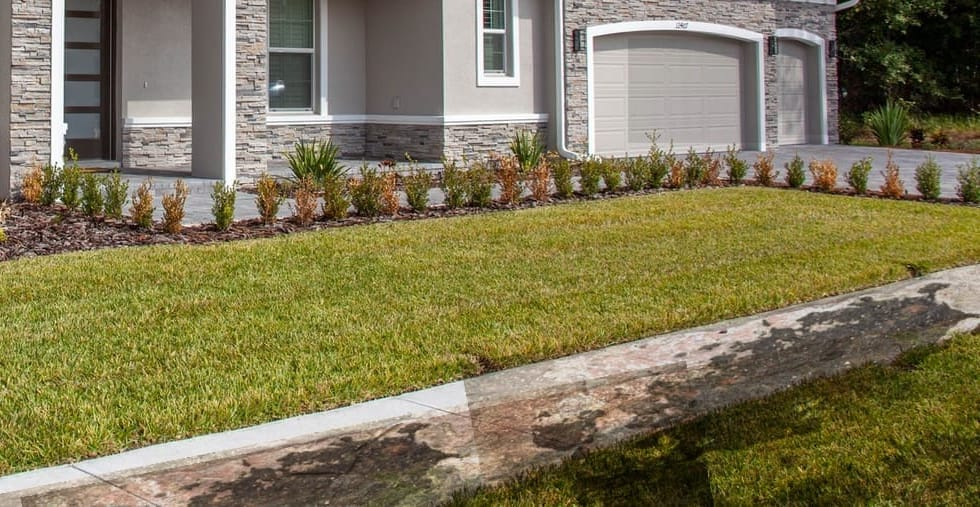
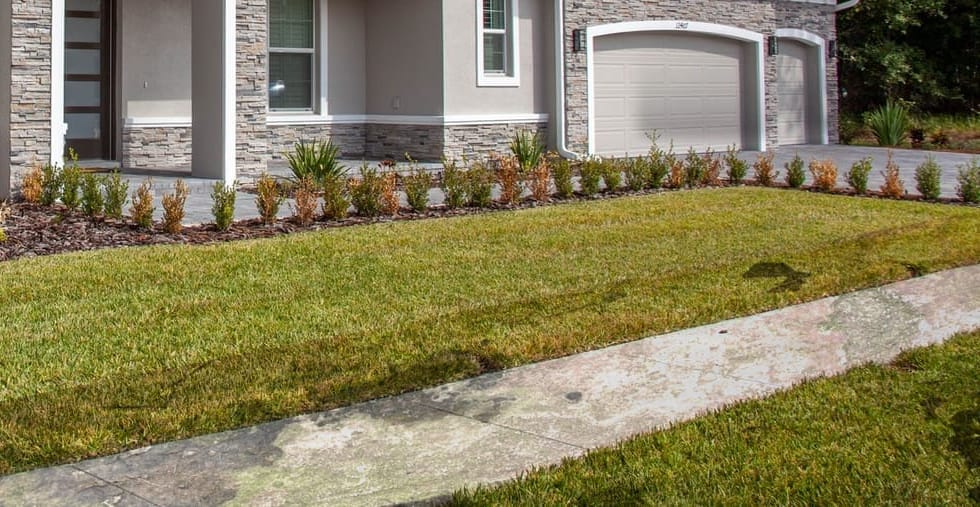
Popup jet+copy, grime artifacts, video variety+loop, hero alts, epic watermark
- TravisPopup: jet line now clipped to the exact photo-edge geometry (no
  longer slashes through 'Owner'); reworded — 'Let's get you a straight
  price / Travis or one of the team will text your quote back' (he doesn't
  quote every job); no-scrollbar on the scroll container
- Grime v5: single continuous concrete texture (no tile-seam shadow);
  garage doors + gutters now feathered gradient stains, no hard box edges
- FieldTV: clips loop cleanly (added loop, dropped abrupt onEnded advance)
- SocialStrip: 10 distinct thumbnail cards from varied clip moments, slower
  marquee — a real scroll with no obvious repeat
- Two alternate hero loops encoded (hero-alt-1/2) + HERO_MEDIA one-line
  switch; hero video is now config-driven
- AreaRipple heading stacks cleanly (no awkward mid-phrase break)
- Footer: tasteful blended 'Site by Epic Dev Solutions' watermark

Changed region(s): [[0.0, 0.4438, 1.0, 1.0], [0.6122, 0.5325, 0.6429, 0.5917]]

diff --git a/src/components/TravisPopup.tsx b/src/components/TravisPopup.tsx
@@ -66,7 +66,7 @@ export default function TravisPopup() {
             animate={{ y: 0, scale: 1, rotate: 0 }}
             exit={{ y: 56, opacity: 0 }}
             transition={{ type: "spring", stiffness: 240, damping: 24 }}
-            className="relative max-h-[92svh] w-full max-w-[26rem] overflow-hidden overflow-y-auto rounded-[1.75rem] bg-white shadow-[0_48px_120px_-24px_rgba(4,18,31,0.85)]"
+            className="no-scrollbar relative max-h-[92svh] w-full max-w-[26rem] overflow-hidden overflow-y-auto rounded-[1.75rem] bg-white shadow-[0_48px_120px_-24px_rgba(4,18,31,0.85)]"
             onClick={(e) => e.stopPropagation()}
           >
             {/* Travis, cut on the wand angle */}
@@ -92,7 +92,7 @@ export default function TravisPopup() {
                 <span className="text-[0.6rem] font-bold text-foam">5.0 on Google</span>
               </div>
 
-              <div className="absolute bottom-8 left-5 flex items-center gap-2.5">
+              <div className="absolute bottom-[4.5rem] left-5 flex items-center gap-2.5">
                 <Image src="/images/logo-white.png" alt="" width={44} height={44} className="h-10 w-10 drop-shadow-lg" />
                 <div>
                   <p className="display text-xl leading-none text-foam drop-shadow-md">Travis Moss</p>
@@ -101,22 +101,16 @@ export default function TravisPopup() {
               </div>
             </div>
 
-            {/* the jet riding the cut */}
+            {/* the jet riding the cut — clipped to the exact edge geometry */}
             <div
               aria-hidden="true"
-              className="pointer-events-none absolute left-[-4%] top-0 h-56 w-[108%] sm:h-60"
-              style={{ clipPath: "polygon(0 0, 100% 0, 100% 100%, 0 100%)" }}
-            >
-              <span
-                className="absolute left-[-2%] right-[-2%] h-[3px] origin-left"
-                style={{
-                  top: "88%",
-                  transform: "rotate(-4.6deg)",
-                  background: "linear-gradient(90deg, rgba(2,171,223,0.2), rgba(127,214,242,0.95), rgba(2,171,223,0.2))",
-                  boxShadow: "0 0 18px 4px rgba(2,171,223,0.5)",
-                }}
-              />
-            </div>
+              className="pointer-events-none absolute left-0 top-0 h-56 w-full sm:h-60"
+              style={{
+                clipPath: "polygon(0 97.4%, 100% 75.4%, 100% 78.2%, 0 100%)",
+                background: "linear-gradient(90deg, rgba(2,171,223,0.25), rgba(127,214,242,0.95), rgba(2,171,223,0.25))",
+                filter: "drop-shadow(0 0 10px rgba(2,171,223,0.6))",
+              }}
+            />
 
             <div className="relative px-6 pb-6 pt-4">
               {/* ghosted splash behind the copy */}
@@ -129,11 +123,12 @@ export default function TravisPopup() {
                 className="pointer-events-none absolute -right-8 bottom-2 w-40 rotate-6 opacity-[0.06]"
               />
               <p className="display text-[1.65rem] leading-[1.05] text-ink">
-                Want me to take a look <span className="text-hydro">myself?</span>
+                Let&apos;s get you a <span className="whitespace-nowrap text-hydro">straight price.</span>
               </p>
               <p className="mt-2.5 text-sm leading-relaxed text-slate">
-                I quote every job personally. Send your address — I&apos;ll text back a
-                straight price, usually the same day.
+                Send your address and what needs washing — Travis or one of the team
+                will text your quote back, usually the{" "}
+                <span className="whitespace-nowrap">same day.</span>
               </p>
 
               <div className="mt-5 flex flex-col gap-2.5">

diff --git a/src/lib/site.ts b/src/lib/site.ts
@@ -193,6 +193,16 @@ export const CITIES = [
   "Winter Garden", "Apopka", "Ocoee", "Orlando",
 ];
 
+/* Hero background footage — swap in one place.
+   Options: /videos/hero-wash.mp4 (low-angle jet + mist wall)
+            /videos/hero-alt-1.mp4 (close wand jet on concrete, 4K source)
+            /videos/hero-alt-2.mp4 (bench + rolling mist)
+   Each has a matching poster: same name with -poster.jpg under /images. */
+export const HERO_MEDIA = {
+  video: "/videos/hero-wash.mp4",
+  poster: "/images/hero-wash-poster.jpg",
+};
+
 export const STATS = [
   { value: 4000, suffix: " PSI", label: "of commercial-grade pressure" },
   { value: 250, suffix: "°F", label: "hot water for grease & sanitation" },
@@ -230,4 +240,20 @@ export const FIELD_CLIPS = [
     label: "The rig rolls out",
     tag: "On the road",
   },
+];
+
+/* Poster cards for the bottom social marquee — more variety than the 4 clips,
+   pulled from different moments so the scroll never looks repetitive. Each is
+   a still that links straight out to the socials. */
+export const SOCIAL_CARDS = [
+  { poster: "/images/field-driveway.jpg", label: "House exterior soft wash", tag: "Residential" },
+  { poster: "/images/social-engine-8.jpg", label: "Peterbilt, degreased", tag: "Heavy equipment" },
+  { poster: "/images/field-trailer.jpg", label: "Box trailer — inside & out", tag: "Fleet" },
+  { poster: "/images/social-rig-3.jpg", label: "Rig set up on site", tag: "On the road" },
+  { poster: "/images/social-driveway-14.jpg", label: "Siding brought back to white", tag: "Residential" },
+  { poster: "/images/social-engine-22.jpg", label: "Engine bay detail", tag: "Heavy equipment" },
+  { poster: "/images/social-trailer-6.jpg", label: "Trailer wash-down", tag: "Fleet" },
+  { poster: "/images/field-rig.jpg", label: "Loaded and rolling", tag: "On the road" },
+  { poster: "/images/social-driveway-5.jpg", label: "Soft wash in progress", tag: "Residential" },
+  { poster: "/images/social-trailer-20.jpg", label: "Fleet, spotless finish", tag: "Fleet" },
 ];

diff --git a/src/components/Footer.tsx b/src/components/Footer.tsx
@@ -97,9 +97,24 @@ export default function Footer() {
             </div>
           </div>
 
-          <div className="mt-14 flex flex-col items-center justify-between gap-3 border-t border-hydro/10 pt-6 text-[0.6875rem] text-mist-dim md:flex-row">
+          <div className="mt-14 flex flex-col items-center justify-between gap-4 border-t border-hydro/10 pt-6 text-[0.6875rem] text-mist-dim md:flex-row">
             <p>© {new Date().getFullYear()} TM Home Detailz. Family owned &amp; operated in Central Florida.</p>
-            <p className="label text-[0.5625rem]">Commercial · Residential · Fleet · Heavy Equipment</p>
+            <a
+              href="https://www.epicdevsolutions.com"
+              target="_blank"
+              rel="noopener noreferrer"
+              className="group flex items-center gap-2.5 opacity-55 transition-opacity hover:opacity-100"
+              aria-label="Website by Epic Dev Solutions"
+            >
+              <span className="text-[0.5625rem] uppercase tracking-[0.18em]">Site by</span>
+              <Image
+                src="/images/epic-logo.png"
+                alt="Epic Dev Solutions"
+                width={663}
+                height={160}
+                className="h-4 w-auto opacity-90 grayscale transition-all duration-300 group-hover:opacity-100 group-hover:grayscale-0"
+              />
+            </a>
           </div>
         </div>
       </div>

diff --git a/src/components/Hero.tsx b/src/components/Hero.tsx
@@ -6,7 +6,7 @@ import { useEffect, useRef, useState } from "react";
 import PowerWash from "@/components/PowerWash";
 import JetButton from "@/components/JetButton";
 import SplashMark from "@/components/SplashMark";
-import { SITE, CITIES } from "@/lib/site";
+import { SITE, CITIES, HERO_MEDIA } from "@/lib/site";
 
 /* Hero: the screen is split by a pressure jet on the wand angle from the TM
    logo. Left, the pitch; right, live footage of a Florida pool deck getting
@@ -27,7 +27,7 @@ export default function Hero() {
     <section ref={ref} className="relative flex min-h-[100svh] flex-col overflow-hidden bg-abyss">
       {/* ---------- mobile backdrop: the pool-deck footage under water glass ---------- */}
       <div className="absolute inset-0 md:hidden" aria-hidden="true">
-        <Image src="/images/hero-wash-poster.jpg" alt="" fill priority className="object-cover object-[62%_center]" sizes="100vw" />
+        <Image src={HERO_MEDIA.poster} alt="" fill priority className="object-cover object-[62%_center]" sizes="100vw" />
         {desktop === false && (
           <video
             autoPlay
@@ -35,10 +35,10 @@ export default function Hero() {
             loop
             playsInline
             preload="metadata"
-            poster="/images/hero-wash-poster.jpg"
+            poster={HERO_MEDIA.poster}
             className="absolute inset-0 h-full w-full object-cover object-[62%_center]"
           >
-            <source src="/videos/hero-wash.mp4" type="video/mp4" />
+            <source src={HERO_MEDIA.video} type="video/mp4" />
           </video>
         )}
         <div className="absolute inset-0 bg-abyss/55" />
@@ -49,7 +49,7 @@ export default function Hero() {
       <div className="absolute inset-y-0 right-0 hidden w-[57%] md:block" aria-hidden="true">
         <div className="absolute inset-y-0 -right-40 left-0 origin-top-left skew-x-[7deg] overflow-hidden">
           <div className="absolute -inset-x-24 inset-y-0 origin-top-left -skew-x-[7deg]">
-            <Image src="/images/hero-wash-poster.jpg" alt="" fill priority className="object-cover object-[45%_55%]" sizes="60vw" />
+            <Image src={HERO_MEDIA.poster} alt="" fill priority className="object-cover object-[45%_55%]" sizes="60vw" />
             {desktop === true && (
               <video
                 autoPlay
@@ -57,10 +57,10 @@ export default function Hero() {
                 loop
                 playsInline
                 preload="metadata"
-                poster="/images/hero-wash-poster.jpg"
+                poster={HERO_MEDIA.poster}
                 className="absolute inset-0 h-full w-full object-cover object-[45%_55%]"
               >
-                <source src="/videos/hero-wash.mp4" type="video/mp4" />
+                <source src={HERO_MEDIA.video} type="video/mp4" />
               </video>
             )}
           </div>

diff --git a/src/components/SocialStrip.tsx b/src/components/SocialStrip.tsx
@@ -1,7 +1,7 @@
 import Image from "next/image";
 import { Reveal } from "@/components/Reveal";
 import SplashMark from "@/components/SplashMark";
-import { FIELD_CLIPS, SITE } from "@/lib/site";
+import { SOCIAL_CARDS, SITE } from "@/lib/site";
 
 /* An endless film strip of Travis's real clips — every card is a doorway to
    the socials. Pressure washing is the most-watchable trade on the internet. */
@@ -24,8 +24,9 @@ function InstagramIcon({ className = "" }: { className?: string }) {
 }
 
 // alternate TikTok / Instagram destinations across the cards
-const CARDS = FIELD_CLIPS.map((c, i) => ({
+const CARDS = SOCIAL_CARDS.map((c, i) => ({
   ...c,
+  id: `${c.tag}-${i}`,
   href: i % 2 === 0 ? SITE.tiktok : SITE.instagram,
   platform: (i % 2 === 0 ? "tiktok" : "instagram") as "tiktok" | "instagram",
 }));
@@ -93,8 +94,8 @@ export default function SocialStrip() {
         <div className="marquee-hover relative overflow-hidden">
           <div className="pointer-events-none absolute inset-y-0 left-0 z-10 w-16 bg-gradient-to-r from-abyss to-transparent md:w-32" />
           <div className="pointer-events-none absolute inset-y-0 right-0 z-10 w-16 bg-gradient-to-l from-abyss to-transparent md:w-32" />
-          <div className="marquee-track flex w-max gap-4 pr-4 [animation-duration:48s] md:gap-5 md:pr-5">
-            {[...CARDS, ...CARDS, ...CARDS].map((c, i) => (
+          <div className="marquee-track flex w-max gap-4 pr-4 [animation-duration:64s] md:gap-5 md:pr-5">
+            {[...CARDS, ...CARDS].map((c, i) => (
               <Card key={`${c.id}-${i}`} c={c} />
             ))}
           </div>

diff --git a/src/components/AreaRipple.tsx b/src/components/AreaRipple.tsx
@@ -30,8 +30,10 @@ export default function AreaRipple() {
         </Reveal>
         <Reveal delay={0.08}>
           <h2 className="display text-4xl md:text-6xl">
-            One drop here. Ripples across{" "}
-            <span className="text-hydro">Central&nbsp;Florida.</span>
+            <span className="block">One drop here.</span>
+            <span className="block">
+              Ripples across <span className="text-hydro">Central&nbsp;Florida.</span>
+            </span>
           </h2>
         </Reveal>
         <Reveal delay={0.16}>

diff --git a/src/components/FieldTV.tsx b/src/components/FieldTV.tsx
@@ -144,6 +144,7 @@ export default function FieldTV() {
                       src={clip.src}
                       poster={clip.poster}
                       autoPlay
+                      loop
                       muted={muted}
                       playsInline
                       preload="auto"
@@ -153,7 +154,6 @@ export default function FieldTV() {
                           progressRef.current.style.width = `${(v.currentTime / v.duration) * 100}%`;
                         }
                       }}
-                      onEnded={() => go(active + 1)}
                       onClick={() => setMuted((m) => !m)}
                       className="h-full w-full cursor-pointer object-cover"
                     />